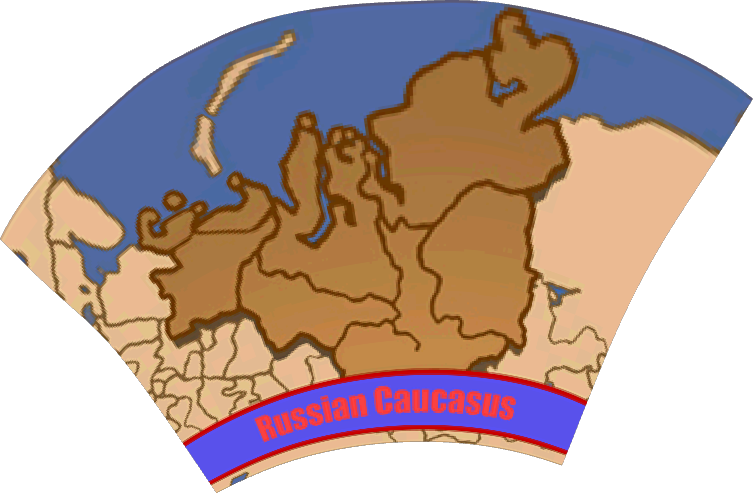
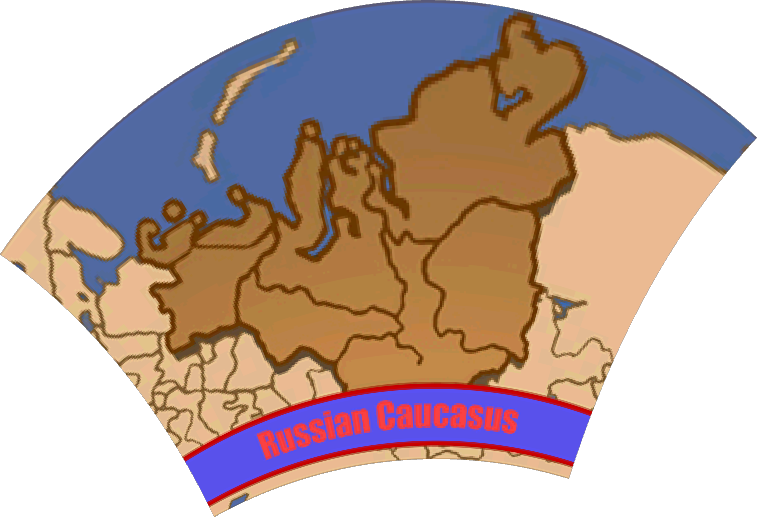
Overlay added for CoD4 NDS Mission #6 The russian, created with new self-made tool Geoperio

diff --git a/content/levels/cod4-nds/campaign/6-the-russian.md b/content/levels/cod4-nds/campaign/6-the-russian.md
@@ -8,10 +8,10 @@ wikiArticle: codwiki-the-russian
 mapOverlay:
   opacity: 0.72
   corners:
-    topLeft: [77.97924, 21.37464]
-    topRight: [77.97924, 142.26458]
-    bottomLeft: [44.47409, 21.37464]
-    bottomRight: [44.47409, 142.26458]
+    topLeft: [78.20210, 22.08495]
+    topRight: [78.20210, 141.42978]
+    bottomLeft: [43.61876, 22.08495]
+    bottomRight: [43.61876, 141.42978]
   attribution:
     title: "Call of Duty 4 (NDS) Map display in level intro"
     source: "Screenshot from NDS game by plp-gtr."
